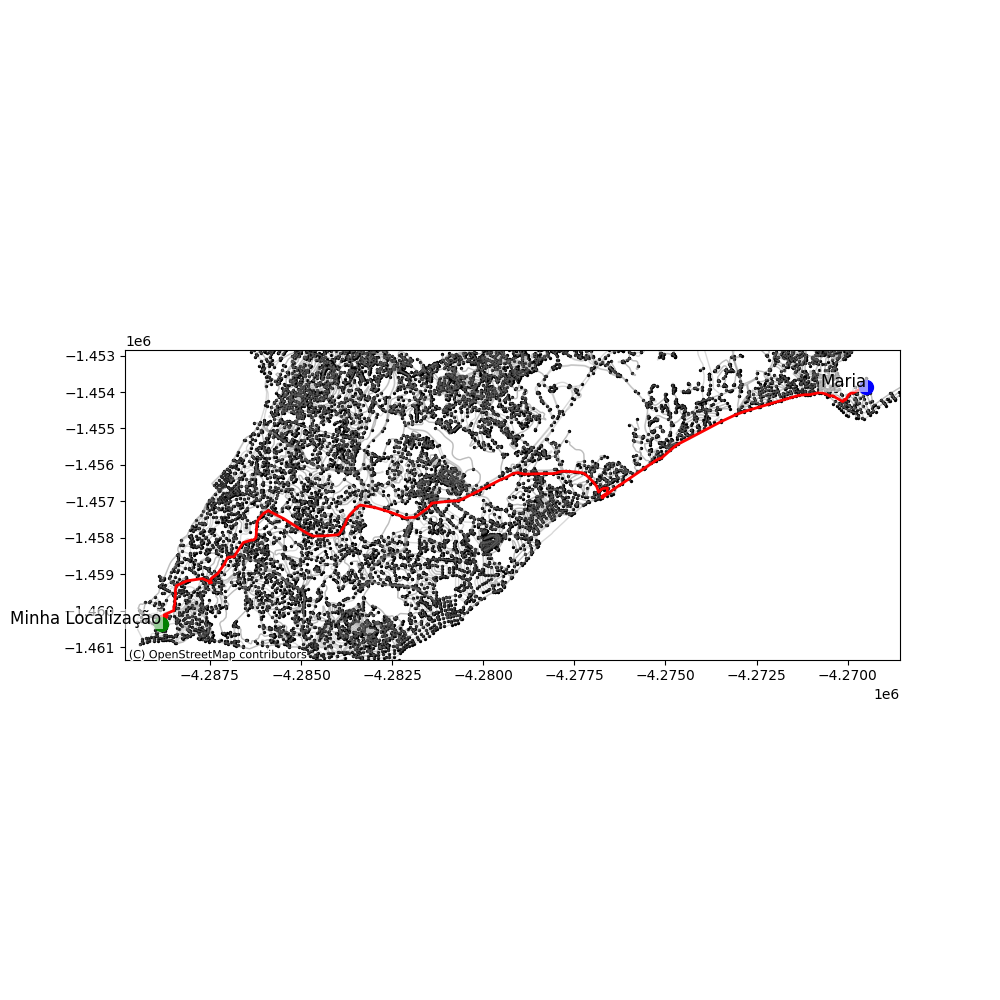
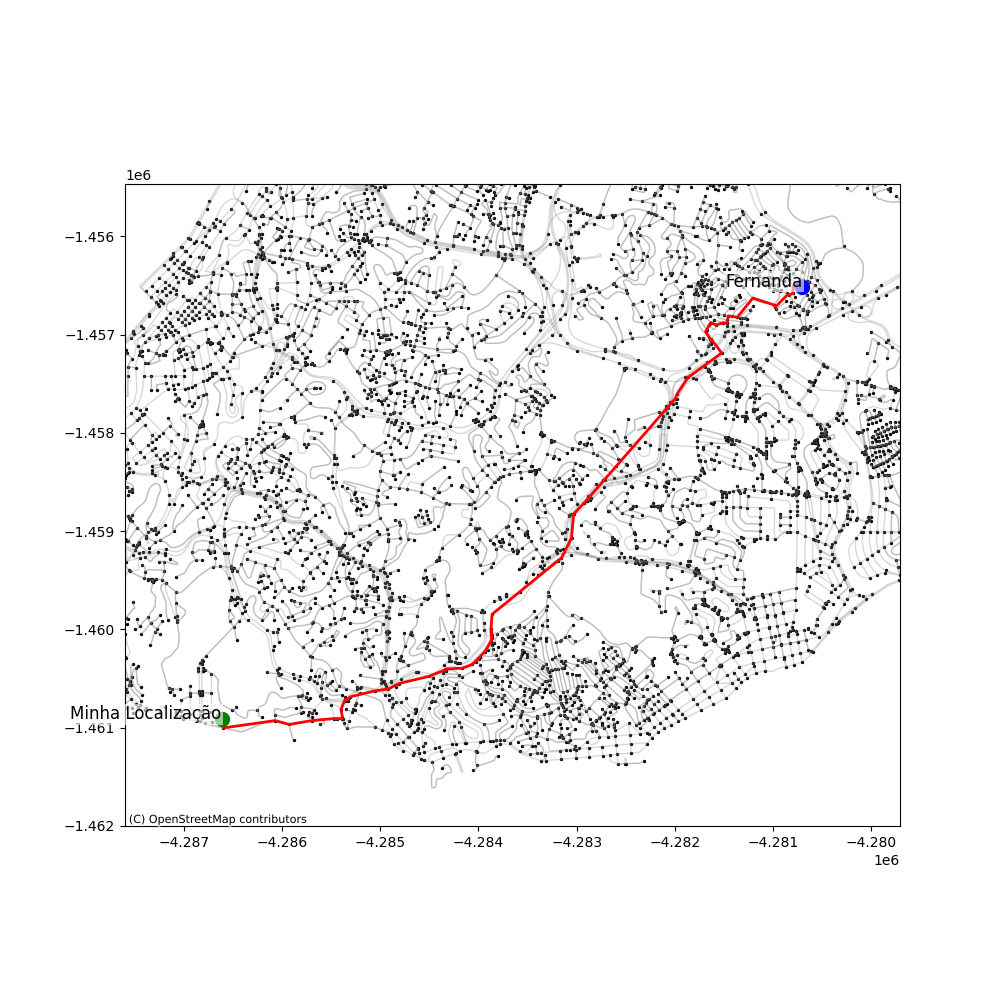
front basico e mudanças na rota do caminho mais curto para ceitar o formato do form

diff --git a/static/route.html b/static/route.html
@@ -25,7 +25,7 @@
             <meta name="viewport" content="width=device-width,
                 initial-scale=1.0, maximum-scale=1.0, user-scalable=no" />
             <style>
-                #map_62e8d7b0d8030ce440257b460fbea397 {
+                #map_ee160bf739ef2c5704637f2fe9cd32aa {
                     position: relative;
                     width: 100.0%;
                     height: 100.0%;
@@ -39,16 +39,16 @@
 <body>
     
     
-            <div class="folium-map" id="map_62e8d7b0d8030ce440257b460fbea397" ></div>
+            <div class="folium-map" id="map_ee160bf739ef2c5704637f2fe9cd32aa" ></div>
         
 </body>
 <script>
     
     
-            var map_62e8d7b0d8030ce440257b460fbea397 = L.map(
-                "map_62e8d7b0d8030ce440257b460fbea397",
+            var map_ee160bf739ef2c5704637f2fe9cd32aa = L.map(
+                "map_ee160bf739ef2c5704637f2fe9cd32aa",
                 {
-                    center: [-13.005520546400277, -38.52722048185465],
+                    center: [-13.0103526, -38.5073181],
                     crs: L.CRS.EPSG3857,
                     zoom: 12,
                     zoomControl: true,
@@ -60,50 +60,50 @@
 
         
     
-            var tile_layer_2d2499ea745b44bf82ff240d55d5a96b = L.tileLayer(
+            var tile_layer_ad962e31ba3b7714bb55341630f7840c = L.tileLayer(
                 "https://tile.openstreetmap.org/{z}/{x}/{y}.png",
                 {"attribution": "\u0026copy; \u003ca href=\"https://www.openstreetmap.org/copyright\"\u003eOpenStreetMap\u003c/a\u003e contributors", "detectRetina": false, "maxNativeZoom": 19, "maxZoom": 19, "minZoom": 0, "noWrap": false, "opacity": 1, "subdomains": "abc", "tms": false}
             );
         
     
-            tile_layer_2d2499ea745b44bf82ff240d55d5a96b.addTo(map_62e8d7b0d8030ce440257b460fbea397);
+            tile_layer_ad962e31ba3b7714bb55341630f7840c.addTo(map_ee160bf739ef2c5704637f2fe9cd32aa);
         
     
 
-        function geo_json_63338ac643987db251547c9522655f0e_onEachFeature(feature, layer) {
+        function geo_json_78284f5bcca3287f4d9697631aa72b55_onEachFeature(feature, layer) {
             layer.on({
             });
         };
-        var geo_json_63338ac643987db251547c9522655f0e = L.geoJson(null, {
-                onEachFeature: geo_json_63338ac643987db251547c9522655f0e_onEachFeature,
+        var geo_json_78284f5bcca3287f4d9697631aa72b55 = L.geoJson(null, {
+                onEachFeature: geo_json_78284f5bcca3287f4d9697631aa72b55_onEachFeature,
             
         });
 
-        function geo_json_63338ac643987db251547c9522655f0e_add (data) {
-            geo_json_63338ac643987db251547c9522655f0e
+        function geo_json_78284f5bcca3287f4d9697631aa72b55_add (data) {
+            geo_json_78284f5bcca3287f4d9697631aa72b55
                 .addData(data);
         }
-            geo_json_63338ac643987db251547c9522655f0e_add({"bbox": [-38.5272135, -13.0053718, -38.3541456, -12.948534], "features": [{"bbox": [-38.5272135, -13.0053718, -38.3541456, -12.948534], "geometry": {"coordinates": [[-38.5268024, -13.0053718], [-38.5258408, -13.0036992], [-38.5257777, -13.0035875], [-38.525968, -13.0036301], [-38.5272135, -13.0037875], [-38.5268451, -13.0035033], [-38.5241635, -13.0022812], [-38.5241428, -13.0015161], [-38.5240176, -13.0011871], [-38.523993, -13.0010715], [-38.5239541, -13.0008939], [-38.523913, -13.0005949], [-38.523842, -12.9989338], [-38.5236875, -12.998178], [-38.5238318, -12.9978098], [-38.5235488, -12.9963619], [-38.5225135, -12.9958719], [-38.5209786, -12.9952022], [-38.5205127, -12.9951133], [-38.5171392, -12.9946273], [-38.5148588, -12.995583], [-38.5154285, -12.9956785], [-38.515199, -12.9953034], [-38.5149802, -12.9947818], [-38.5148732, -12.9945379], [-38.5133883, -12.9934786], [-38.5117058, -12.9911478], [-38.510963, -12.989662], [-38.5105882, -12.9894685], [-38.5093452, -12.9894098], [-38.5076903, -12.9869263], [-38.5074098, -12.9865199], [-38.507039, -12.9859767], [-38.5051301, -12.9853898], [-38.5045278, -12.9853669], [-38.5040048, -12.9849377], [-38.5038585, -12.984405], [-38.5037901, -12.9827742], [-38.5036691, -12.9811593], [-38.5036567, -12.9810678], [-38.5031248, -12.9801951], [-38.5027722, -12.979783], [-38.5020234, -12.978957], [-38.500851, -12.9782943], [-38.5004501, -12.97853], [-38.4971277, -12.9802152], [-38.4913615, -12.9837259], [-38.4908081, -12.983991], [-38.4900753, -12.9843489], [-38.4898691, -12.9844173], [-38.4870438, -12.9843718], [-38.4838158, -12.984116], [-38.4833305, -12.9838178], [-38.481908, -12.9815531], [-38.4814395, -12.9802753], [-38.4807629, -12.9793428], [-38.4802925, -12.978838], [-38.4802174, -12.9787562], [-38.4791366, -12.9776726], [-38.4789515, -12.9774712], [-38.4782524, -12.9769706], [-38.4748422, -12.9775058], [-38.4724412, -12.9781761], [-38.4709906, -12.9786277], [-38.4695008, -12.9791298], [-38.4681191, -12.9796261], [-38.4671662, -12.9800604], [-38.4646615, -12.9798948], [-38.4615815, -12.9777117], [-38.4608065, -12.9768686], [-38.460643, -12.976526], [-38.45622, -12.9760307], [-38.4540215, -12.975954], [-38.4529907, -12.9755153], [-38.4505203, -12.9743058], [-38.4455562, -12.9718395], [-38.4434889, -12.9708038], [-38.4423112, -12.9703828], [-38.4405278, -12.9694081], [-38.4392637, -12.9691763], [-38.4390589, -12.969252], [-38.4377704, -12.96954], [-38.436929, -12.9695153], [-38.4344423, -12.9694522], [-38.4329159, -12.969425], [-38.4324037, -12.9694162], [-38.4307236, -12.9694074], [-38.4299258, -12.9692882], [-38.4296565, -12.9692007], [-38.4294027, -12.9690747], [-38.428447, -12.9688789], [-38.427743, -12.9688592], [-38.4275486, -12.9688535], [-38.4255994, -12.9689892], [-38.4252808, -12.9690206], [-38.4251435, -12.9690388], [-38.4245311, -12.9690997], [-38.4236687, -12.9691996], [-38.4232191, -12.9693229], [-38.4228909, -12.9694558], [-38.4217228, -12.970466], [-38.4208974, -12.971324], [-38.4206258, -12.9716161], [-38.4199371, -12.9724969], [-38.4194573, -12.9738804], [-38.4189883, -12.9734065], [-38.418765, -12.973202], [-38.4181367, -12.9729105], [-38.4172454, -12.9728872], [-38.4173284, -12.9732798], [-38.4172432, -12.9737568], [-38.4172438, -12.9739886], [-38.4185073, -12.9748043], [-38.4186548, -12.9748965], [-38.4185579, -12.9752441], [-38.4155577, -12.9730375], [-38.4143595, -12.9722531], [-38.4137212, -12.9718407], [-38.4120103, -12.9706993], [-38.4053675, -12.9662702], [-38.4045889, -12.9658455], [-38.4039796, -12.9656898], [-38.4017354, -12.9637761], [-38.4005279, -12.9627597], [-38.4000021, -12.9624198], [-38.389212, -12.9568997], [-38.3856649, -12.9552799], [-38.38365, -12.954541], [-38.3775989, -12.9527675], [-38.3774247, -12.9527073], [-38.376726, -12.9524932], [-38.3759914, -12.9522876], [-38.3751981, -12.9520651], [-38.3745642, -12.9518871], [-38.3708552, -12.9508303], [-38.3700577, -12.9506155], [-38.3685078, -12.9504626], [-38.3681993, -12.9504672], [-38.3677963, -12.9504659], [-38.3673397, -12.9504241], [-38.3662681, -12.9502163], [-38.3651268, -12.9499849], [-38.3645958, -12.9499621], [-38.3635819, -12.9502659], [-38.3634008, -12.9503247], [-38.3630532, -12.9504719], [-38.3628893, -12.9505392], [-38.3628678, -12.9505424], [-38.3625801, -12.9507325], [-38.3625432, -12.9507894], [-38.3617989, -12.9506979], [-38.3594948, -12.951985], [-38.3592978, -12.9521017], [-38.3592296, -12.9520174], [-38.3590122, -12.951866], [-38.3589284, -12.9516184], [-38.3585861, -12.9517142], [-38.3577757, -12.9504543], [-38.3568163, -12.9498482], [-38.3567912, -12.9500909], [-38.3559591, -12.9496277], [-38.3558316, -12.9495653], [-38.3557311, -12.9495231], [-38.3548932, -12.9490354], [-38.3541456, -12.948534]], "type": "LineString"}, "id": "0", "properties": {}, "type": "Feature"}], "type": "FeatureCollection"});
-        geo_json_63338ac643987db251547c9522655f0e.setStyle(function(feature) {return feature.properties.style;});
+            geo_json_78284f5bcca3287f4d9697631aa72b55_add({"bbox": [-38.5071757, -13.0111329, -38.454253, -12.9713928], "features": [{"bbox": [-38.5071757, -13.0111329, -38.454253, -12.9713928], "geometry": {"coordinates": [[-38.5071155, -13.0108806], [-38.5071757, -13.0111329], [-38.5024172, -13.0104796], [-38.5011403, -13.0108213], [-38.4990301, -13.0104739], [-38.497015, -13.0102959], [-38.4967647, -13.0103047], [-38.496316, -13.010308], [-38.496278, -13.0101468], [-38.496399, -13.0095011], [-38.496078, -13.0086877], [-38.4957101, -13.008483], [-38.49554, -13.008356], [-38.493319, -13.007831], [-38.4920611, -13.0076591], [-38.4914592, -13.0073506], [-38.4911089, -13.0071763], [-38.4883545, -13.0065321], [-38.4869368, -13.0059748], [-38.486837, -13.0058752], [-38.4853414, -13.0058093], [-38.4843987, -13.0054789], [-38.4837226, -13.0048167], [-38.4832445, -13.0043304], [-38.4826413, -13.0033416], [-38.4826229, -13.0030899], [-38.4826663, -13.0025901], [-38.4826871, -13.0022722], [-38.4825697, -13.0009944], [-38.4765839, -12.9962505], [-38.4762441, -12.9960032], [-38.4753168, -12.9941904], [-38.4751192, -12.9920799], [-38.4741309, -12.9910513], [-38.4658353, -12.9817908], [-38.4656636, -12.9813854], [-38.4646615, -12.9798948], [-38.4615815, -12.9777117], [-38.4625151, -12.9765021], [-38.4626392, -12.9764736], [-38.4630571, -12.9758075], [-38.4629547, -12.9756567], [-38.4627258, -12.9752377], [-38.4625742, -12.9750022], [-38.4620686, -12.9752204], [-38.4614436, -12.9750103], [-38.4611297, -12.9750841], [-38.4610547, -12.9747604], [-38.4609742, -12.9744115], [-38.4606309, -12.9744494], [-38.4601562, -12.9745317], [-38.4587302, -12.9728149], [-38.4568172, -12.973424], [-38.4566741, -12.9736164], [-38.4555134, -12.9724752], [-38.4553978, -12.9725641], [-38.4550714, -12.9723809], [-38.455017, -12.971744], [-38.4549782, -12.971701], [-38.4546972, -12.9715181], [-38.4546074, -12.971474], [-38.454253, -12.9713928]], "type": "LineString"}, "id": "0", "properties": {}, "type": "Feature"}], "type": "FeatureCollection"});
+        geo_json_78284f5bcca3287f4d9697631aa72b55.setStyle(function(feature) {return feature.properties.style;});
 
         
     
-            geo_json_63338ac643987db251547c9522655f0e.addTo(map_62e8d7b0d8030ce440257b460fbea397);
+            geo_json_78284f5bcca3287f4d9697631aa72b55.addTo(map_ee160bf739ef2c5704637f2fe9cd32aa);
         
     
-            var marker_76201de10dfc3cccbf68829743dc805d = L.marker(
-                [-13.005520546400277, -38.52722048185465],
+            var marker_1ec9b4e8ce7a92a74f885cc173dd0fb8 = L.marker(
+                [-13.0103526, -38.5073181],
                 {}
-            ).addTo(map_62e8d7b0d8030ce440257b460fbea397);
+            ).addTo(map_ee160bf739ef2c5704637f2fe9cd32aa);
         
     
-            var icon_2a322dd90e7328a149dc703ee22d401b = L.AwesomeMarkers.icon(
+            var icon_60ed034f394bd6711d52cba25c99650e = L.AwesomeMarkers.icon(
                 {"extraClasses": "fa-rotate-0", "icon": "info-sign", "iconColor": "white", "markerColor": "green", "prefix": "glyphicon"}
             );
-            marker_76201de10dfc3cccbf68829743dc805d.setIcon(icon_2a322dd90e7328a149dc703ee22d401b);
+            marker_1ec9b4e8ce7a92a74f885cc173dd0fb8.setIcon(icon_60ed034f394bd6711d52cba25c99650e);
         
     
-            marker_76201de10dfc3cccbf68829743dc805d.bindTooltip(
+            marker_1ec9b4e8ce7a92a74f885cc173dd0fb8.bindTooltip(
                 `<div>
                      Minha Localização
                  </div>`,
@@ -111,21 +111,21 @@
             );
         
     
-            var marker_cf7f0e538200b1ee4c8b4817bc277ca7 = L.marker(
-                [-12.9486, -38.3535],
+            var marker_55de030514a854352dae93f8c2256934 = L.marker(
+                [-12.9718, -38.4542],
                 {}
-            ).addTo(map_62e8d7b0d8030ce440257b460fbea397);
+            ).addTo(map_ee160bf739ef2c5704637f2fe9cd32aa);
         
     
-            var icon_56dcb0754ab2d00b5d52818119f3c3bf = L.AwesomeMarkers.icon(
+            var icon_9abced25b13c2e957e0cae4cf6edf24b = L.AwesomeMarkers.icon(
                 {"extraClasses": "fa-rotate-0", "icon": "info-sign", "iconColor": "white", "markerColor": "blue", "prefix": "glyphicon"}
             );
-            marker_cf7f0e538200b1ee4c8b4817bc277ca7.setIcon(icon_56dcb0754ab2d00b5d52818119f3c3bf);
+            marker_55de030514a854352dae93f8c2256934.setIcon(icon_9abced25b13c2e957e0cae4cf6edf24b);
         
     
-            marker_cf7f0e538200b1ee4c8b4817bc277ca7.bindTooltip(
+            marker_55de030514a854352dae93f8c2256934.bindTooltip(
                 `<div>
-                     Maria
+                     Fernanda
                  </div>`,
                 {"sticky": true}
             );

diff --git a/templates/index.html b/templates/index.html
@@ -1,0 +1,89 @@
+<!DOCTYPE html>
+<html lang="en">
+  <head>
+    <meta charset="UTF-8" />
+    <meta name="viewport" content="width=device-width, initial-scale=1.0" />
+    <title>Shortest Path Finder</title>
+    <script src="https://unpkg.com/htmx.org@1.5.0/dist/htmx.min.js"></script>
+  </head>
+  <body>
+    <h1>Find the Shortest Path</h1>
+
+    <!-- Form to select a friend or place -->
+    <form
+      id="shortest-path-form"
+      hx-post="http://localhost:8000/shortest_path"
+      hx-target="#result"
+      hx-swap="innerHTML"
+    >
+      <label for="latitude">Your Latitude:</label>
+      <input type="text" id="latitude" name="latitude" required readonly />
+      <label for="longitude">Your Longitude:</label>
+      <input type="text" id="longitude" name="longitude" required readonly />
+
+      <label for="destination">Select a Destination:</label>
+      <select id="destination" name="destination" required>
+        <option value="" disabled selected>Select your option</option>
+        <!-- Options will be populated dynamically -->
+      </select>
+
+      <button type="submit">Find Path</button>
+    </form>
+
+    <div id="result">
+      <!-- The result will be displayed here -->
+    </div>
+
+    <script>
+      const apiUrl = "http://localhost:8000";
+
+      document.addEventListener("DOMContentLoaded", function () {
+        if (navigator.geolocation) {
+          navigator.geolocation.getCurrentPosition(
+            function (position) {
+              document.getElementById("latitude").value =
+                position.coords.latitude;
+              document.getElementById("longitude").value =
+                position.coords.longitude;
+            },
+            function (error) {
+              console.error("Error getting location:", error);
+            }
+          );
+        } else {
+          console.error("Geolocation is not supported by this browser.");
+        }
+
+        fetch(`${apiUrl}/friends`)
+          .then((response) => response.json())
+          .then((data) => {
+            const select = document.getElementById("destination");
+            for (const friend in data) {
+              const option = document.createElement("option");
+              option.value = friend;
+              option.text = friend;
+              select.add(option);
+            }
+          })
+          .catch((error) => {
+            console.error("Error fetching friends:", error);
+          });
+
+        fetch(`${apiUrl}/places_salvador`)
+          .then((response) => response.json())
+          .then((data) => {
+            const select = document.getElementById("destination");
+            for (const place in data) {
+              const option = document.createElement("option");
+              option.value = place;
+              option.text = place;
+              select.add(option);
+            }
+          })
+          .catch((error) => {
+            console.error("Error fetching places:", error);
+          });
+      });
+    </script>
+  </body>
+</html>

diff --git a/app.py b/app.py
@@ -1,6 +1,6 @@
-from fastapi import FastAPI, HTTPException, Query
+from fastapi import FastAPI, HTTPException, Query, Request, Form
 from fastapi.middleware.cors import CORSMiddleware
-from fastapi.responses import JSONResponse, FileResponse
+from fastapi.responses import JSONResponse, FileResponse, HTMLResponse
 from pydantic import BaseModel
 import osmnx as ox
 import networkx as nx
@@ -9,12 +9,23 @@ from shapely.geometry import LineString, Point
 import logging
 import json
 from plot_grafico import plot_route
+from fastapi.templating import Jinja2Templates
+from fastapi.staticfiles import StaticFiles
 
 # Define the logger object
 logging.basicConfig(level=logging.INFO)
 logger = logging.getLogger(__name__)
 
 app = FastAPI(title="API para achar o caminho mais curto", description="API para cálculo de rotas mais curta entre os destinos", version="1.0")
+
+# Allow CORS for frontend interaction
+app.add_middleware(
+    CORSMiddleware,
+    allow_origins=["*"],
+    allow_credentials=True,
+    allow_methods=["*"],
+    allow_headers=["*"],
+)
 
 # Carregar dados de amigos e locais de um arquivo JSON
 with open('database.json', 'r') as f:
@@ -34,9 +45,22 @@ def get_friends():
 def get_places_salvador():
     return places_salvador
 
+# Serve static files
+app.mount("/static", StaticFiles(directory="static"), name="static")
+
+# Setup templates
+templates = Jinja2Templates(directory="templates")
+
+@app.get("/", response_class=HTMLResponse)
+def index(request: Request):
+    return templates.TemplateResponse("index.html", {"request": request})
+
+
+
 @app.post("/shortest_path")
-def caminho_mais_curto(location: Location, destination: str = Query(..., description="Nome do amigo ou local")):
+def caminho_mais_curto(latitude: float = Form(...), longitude: float = Form(...), destination: str = Form(...)):
     try:
+        location = Location(latitude=latitude, longitude=longitude)
         # Combinar amigos e lugares em um único dicionário
         combined_locations = {**friends, **places_salvador}
 
